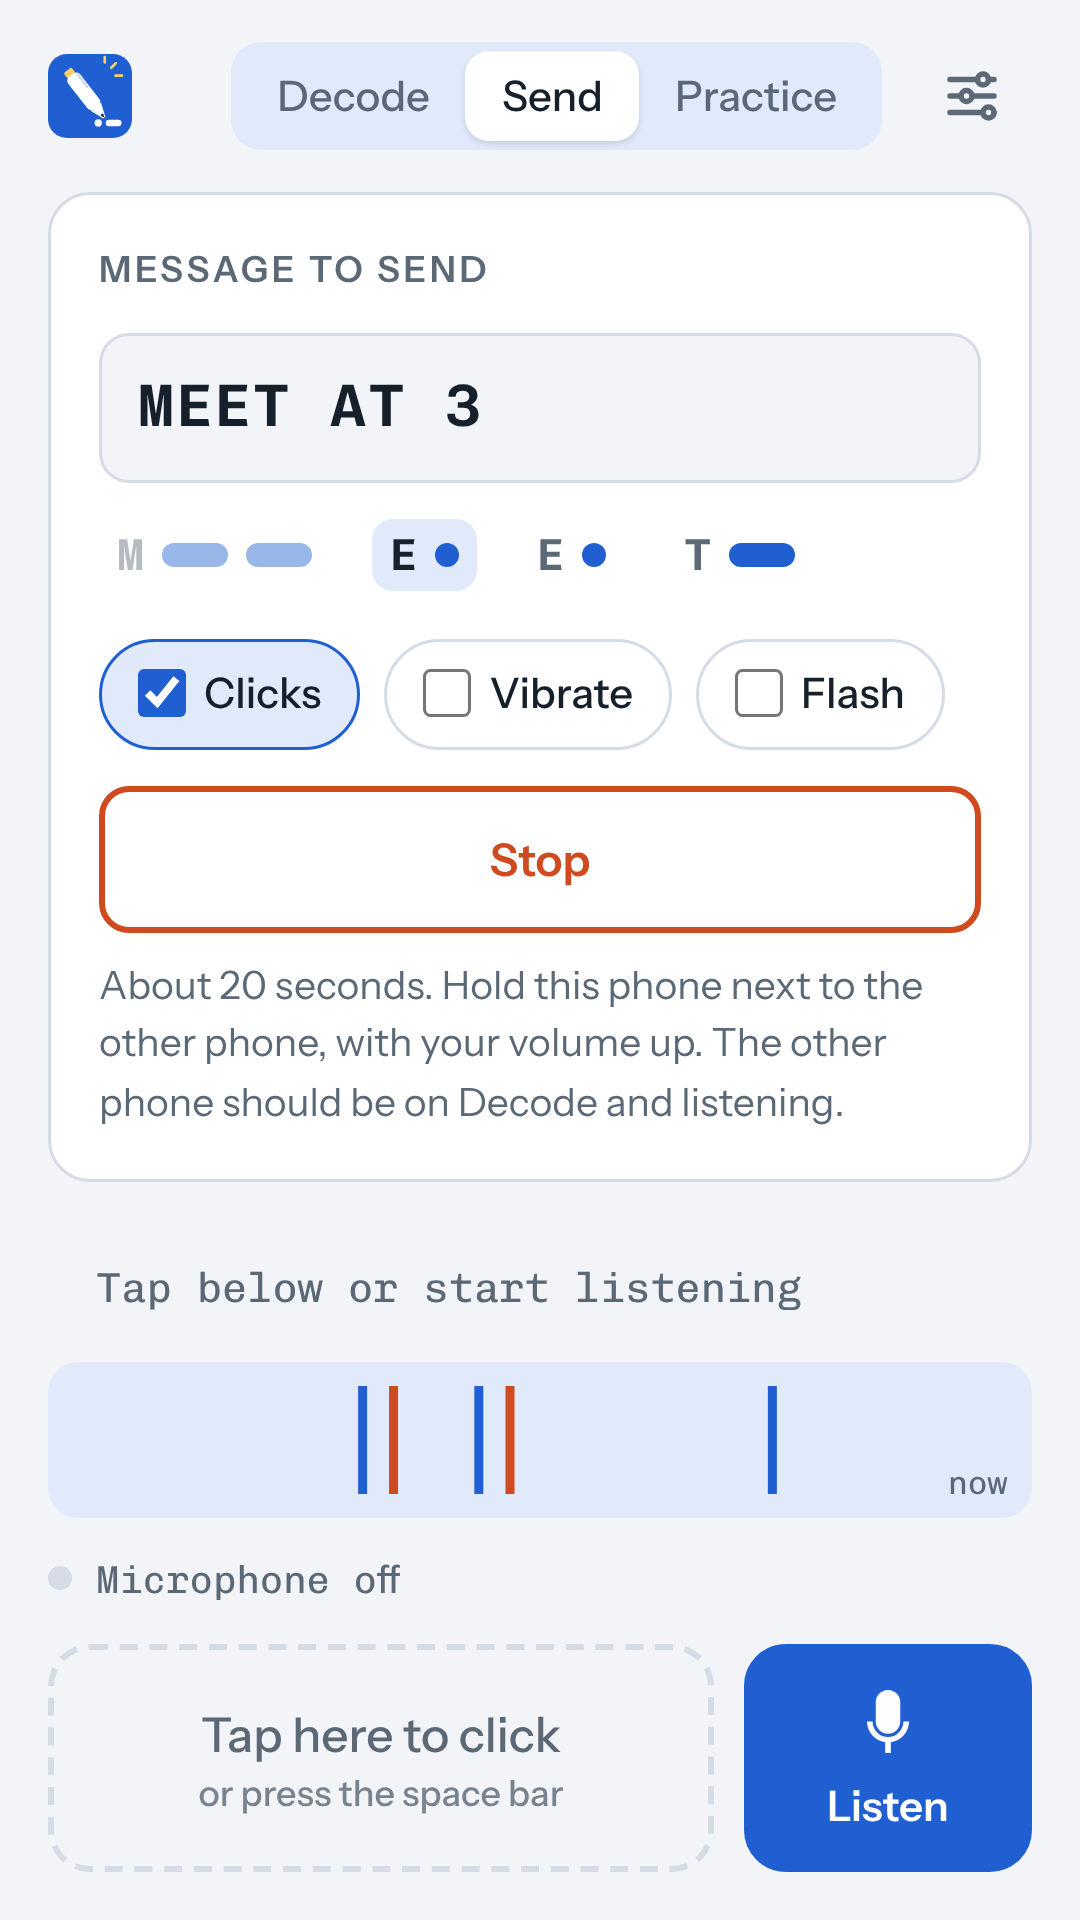
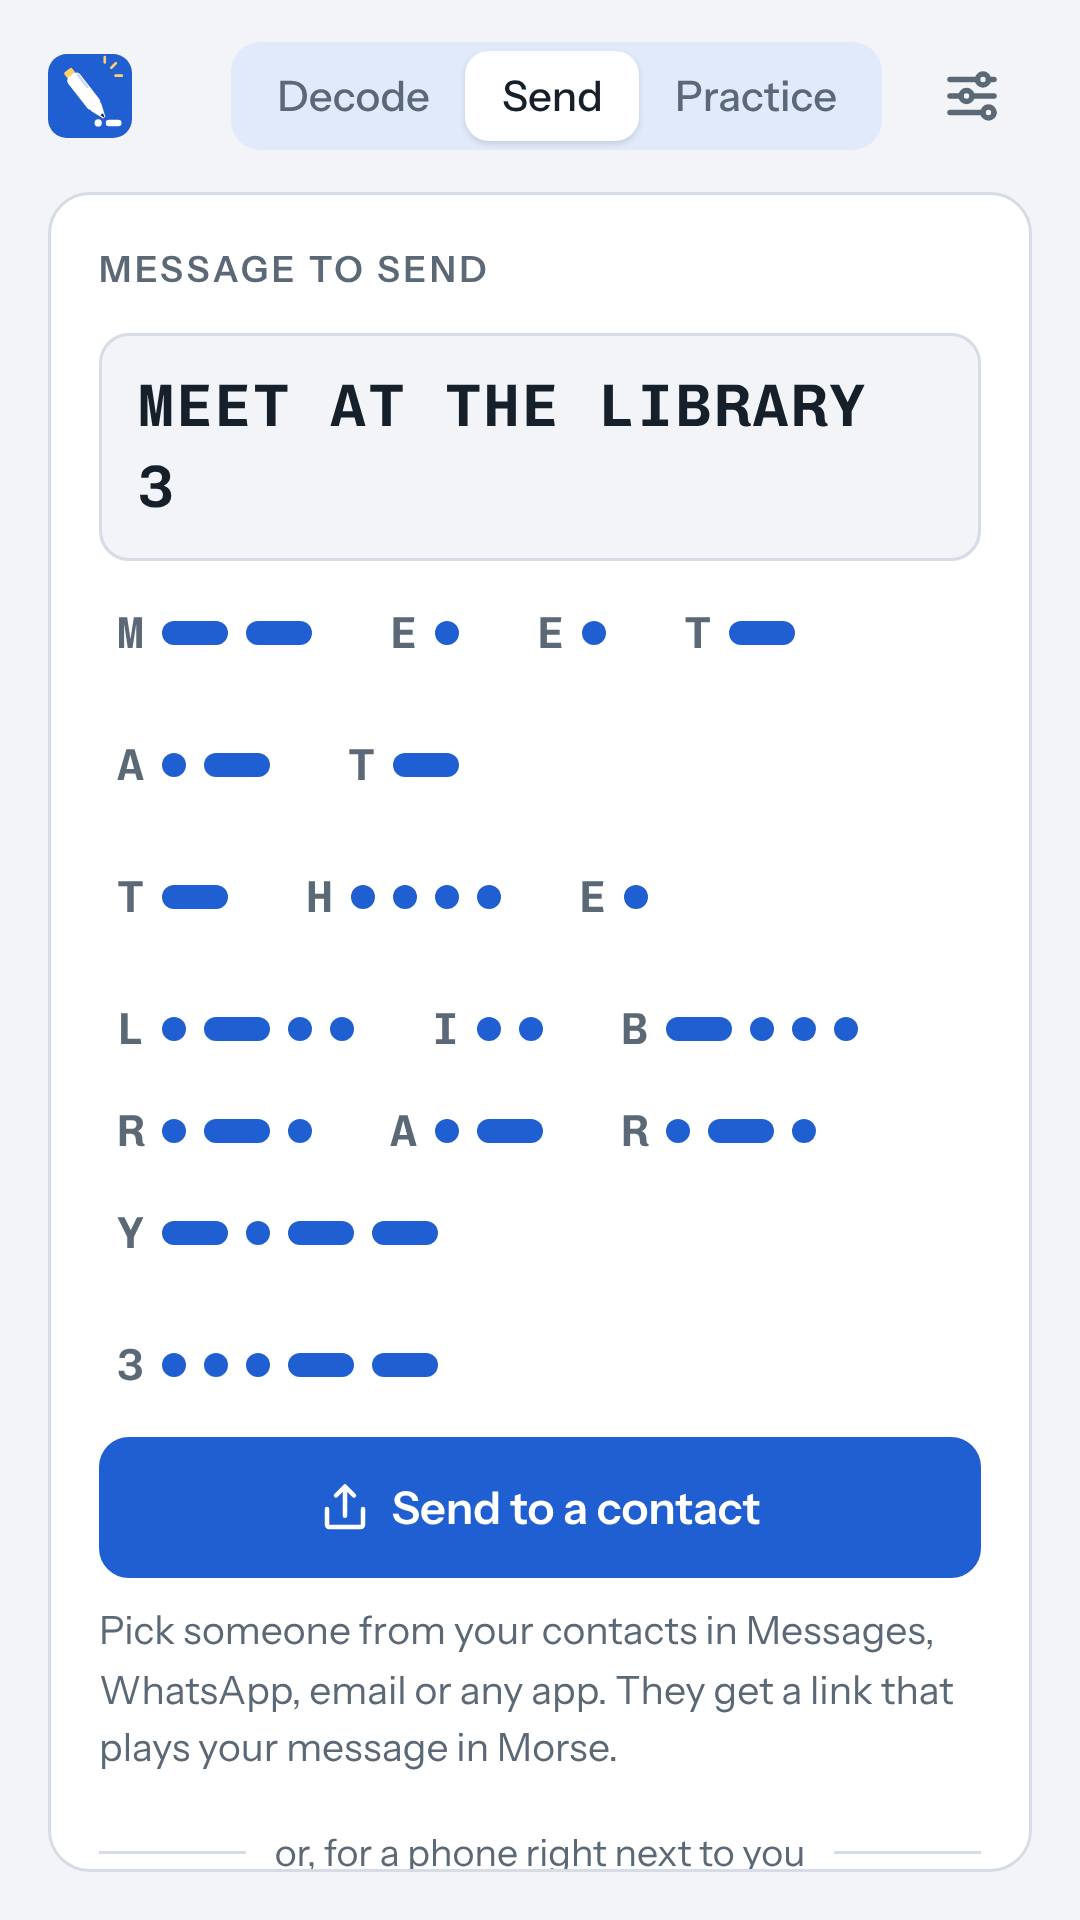
Add files via upload

diff --git a/sixsided/index.html b/sixsided/index.html
@@ -1,0 +1,154 @@
+<!doctype html>
+<html lang="en">
+<head>
+<meta charset="utf-8">
+<meta name="viewport" content="width=device-width,initial-scale=1,viewport-fit=cover">
+<title>SixSided Labs</title>
+<meta name="description" content="SixSided Labs LLC makes small, private apps for Android and the web, including Pen Click Morse.">
+<link rel="icon" href="logo.svg" type="image/svg+xml">
+<style>
+  /* Layout: one centred column. A die-face mark (six pips) is the company's sign;
+     the product card borrows Pen Click Morse's own blue. */
+  @font-face { font-family: "Bricolage Grotesque"; font-weight: 700; font-display: swap; src: url("../fonts/bricolage-grotesque-latin-700-normal.woff2") format("woff2"); }
+  @font-face { font-family: "Instrument Sans"; font-weight: 400; font-display: swap; src: url("../fonts/instrument-sans-latin-400-normal.woff2") format("woff2"); }
+  @font-face { font-family: "Instrument Sans"; font-weight: 600; font-display: swap; src: url("../fonts/instrument-sans-latin-600-normal.woff2") format("woff2"); }
+  @font-face { font-family: "Chivo Mono"; font-weight: 400; font-display: swap; src: url("../fonts/chivo-mono-latin-400-normal.woff2") format("woff2"); }
+
+  :root {
+    --bg: #f4f3ef; --panel: #ffffff; --ink: #1a1d24; --muted: #5f6470; --line: #dcdad3;
+    --pip: #1a1d24; --die: #ffffff; --accent: #1f5fd1; --accent-ink: #ffffff;
+    --display: "Bricolage Grotesque", "Arial Narrow", system-ui, sans-serif;
+    --body: "Instrument Sans", system-ui, -apple-system, "Segoe UI", Roboto, sans-serif;
+    --mono: "Chivo Mono", ui-monospace, Menlo, monospace;
+    color-scheme: light;
+  }
+  @media (prefers-color-scheme: dark) {
+    :root:not([data-theme="light"]) {
+      --bg: #121418; --panel: #1b1e24; --ink: #ecedf0; --muted: #9aa0ab; --line: #2d313a;
+      --pip: #121418; --die: #ecedf0; --accent: #6f9df1; --accent-ink: #0b1220; color-scheme: dark;
+    }
+  }
+  :root[data-theme="dark"] {
+    --bg: #121418; --panel: #1b1e24; --ink: #ecedf0; --muted: #9aa0ab; --line: #2d313a;
+    --pip: #121418; --die: #ecedf0; --accent: #6f9df1; --accent-ink: #0b1220; color-scheme: dark;
+  }
+
+  * { box-sizing: border-box; }
+  body { margin: 0; background: var(--bg); color: var(--ink); font: 17px/1.6 var(--body); }
+  .wrap { max-width: 760px; margin: 0 auto;
+    padding: max(28px, env(safe-area-inset-top)) max(20px, env(safe-area-inset-right)) max(48px, env(safe-area-inset-bottom)) max(20px, env(safe-area-inset-left));
+    display: grid; gap: 56px; }
+
+  header { display: flex; align-items: center; gap: 12px; }
+  .die { width: 40px; height: 40px; flex: none; }
+  .die rect { fill: var(--die); stroke: var(--ink); stroke-width: 6; }
+  .die circle { fill: var(--pip); }
+  @media (prefers-color-scheme: dark) { :root:not([data-theme="light"]) .die rect { stroke: var(--die); } }
+  :root[data-theme="dark"] .die rect { stroke: var(--die); }
+  .wordmark { font: 700 22px/1 var(--display); letter-spacing: -0.01em; }
+
+  .intro h1 { font: 700 clamp(34px, 7vw, 52px)/1.05 var(--display); letter-spacing: -0.02em; margin: 0 0 16px; text-wrap: balance; max-width: 18ch; }
+  .intro p { margin: 0; color: var(--muted); max-width: 56ch; font-size: 18px; }
+
+  h2 { font: 600 13px var(--body); text-transform: uppercase; letter-spacing: .12em; color: var(--muted); margin: 0 0 14px; }
+
+  .product { background: var(--panel); border: 1px solid var(--line); border-radius: 16px; padding: 22px;
+    display: grid; grid-template-columns: 72px 1fr; gap: 18px; align-items: start; }
+  .product img { width: 72px; height: 72px; border-radius: 16px; }
+  .product h3 { font: 700 24px/1.15 var(--display); margin: 2px 0 6px; }
+  .product p { margin: 0 0 14px; color: var(--muted); }
+  .code { display: flex; align-items: center; gap: 5px; margin-bottom: 14px; }
+  .code i { display: block; height: 8px; border-radius: 4px; background: var(--accent); }
+  .code .d { width: 8px; } .code .h { width: 22px; } .code .gap { width: 10px; background: none; }
+  .links { display: flex; gap: 10px; flex-wrap: wrap; }
+  .btn { display: inline-flex; align-items: center; padding: 10px 16px; border-radius: 10px; font: 600 15px var(--body);
+    text-decoration: none; border: 1px solid var(--line); color: var(--ink); background: var(--panel); }
+  .btn.primary { background: var(--accent); border-color: var(--accent); color: var(--accent-ink); }
+  .btn.soon { color: var(--muted); border-style: dashed; cursor: default; }
+  .btn:focus-visible { outline: 2px solid var(--accent); outline-offset: 2px; }
+  @media (max-width: 480px) { .product { grid-template-columns: 1fr; } }
+
+  .points { list-style: none; margin: 0; padding: 0; display: grid; gap: 14px; }
+  .points li { display: grid; grid-template-columns: 28px 1fr; gap: 10px; }
+  .points svg { width: 22px; height: 22px; margin-top: 3px; }
+  .points svg rect { fill: none; stroke: var(--ink); stroke-width: 7; }
+  .points svg circle { fill: var(--ink); }
+  .points b { display: block; }
+  .points span { color: var(--muted); }
+
+  .contact dl { margin: 0; display: grid; grid-template-columns: max-content 1fr; gap: 6px 18px; }
+  .contact dt { color: var(--muted); }
+  .contact dd { margin: 0; }
+  .contact a { color: var(--accent); }
+
+  footer { border-top: 1px solid var(--line); padding-top: 18px; color: var(--muted); font-size: 14px; display: flex; gap: 16px; flex-wrap: wrap; }
+  footer a { color: inherit; }
+</style>
+</head>
+<body>
+<div class="wrap">
+  <header>
+    <svg class="die" viewBox="0 0 100 100" aria-hidden="true">
+      <rect x="5" y="5" width="90" height="90" rx="20"/>
+      <circle cx="31" cy="28" r="8"/><circle cx="31" cy="50" r="8"/><circle cx="31" cy="72" r="8"/>
+      <circle cx="69" cy="28" r="8"/><circle cx="69" cy="50" r="8"/><circle cx="69" cy="72" r="8"/>
+    </svg>
+    <span class="wordmark">SixSided Labs</span>
+  </header>
+
+  <section class="intro">
+    <h1>Small apps for the things you do with your hands.</h1>
+    <p>SixSided Labs LLC builds focused, private apps for Android and the web. Each one does a single job, works on your device, and doesn't ask for an account.</p>
+  </section>
+
+  <section>
+    <h2>Our apps</h2>
+    <article class="product">
+      <img src="../icons/icon-192.png" alt="Pen Click Morse icon" width="72" height="72">
+      <div>
+        <h3>Pen Click Morse</h3>
+        <div class="code" aria-label="P E N in Morse code"><i class="d"></i><i class="h"></i><i class="h"></i><i class="d"></i><i class="gap"></i><i class="d"></i><i class="gap"></i><i class="h"></i><i class="d"></i></div>
+        <p>Send Morse code by clicking a pen. Your phone listens and turns the clicks into text. Send secret messages to friends, or practice until you can do it without looking.</p>
+        <div class="links">
+          <a class="btn primary" href="../">Open the web app</a>
+          <span class="btn soon" title="Coming soon">Google Play: coming soon</span>
+        </div>
+      </div>
+    </article>
+  </section>
+
+  <section>
+    <h2>How we build</h2>
+    <ul class="points">
+      <li>
+        <svg viewBox="0 0 100 100" aria-hidden="true"><rect x="6" y="6" width="88" height="88" rx="22"/><circle cx="50" cy="50" r="11"/></svg>
+        <div><b>One job each</b><span>An app should be quick to learn and hard to outgrow.</span></div>
+      </li>
+      <li>
+        <svg viewBox="0 0 100 100" aria-hidden="true"><rect x="6" y="6" width="88" height="88" rx="22"/><circle cx="30" cy="30" r="11"/><circle cx="70" cy="70" r="11"/></svg>
+        <div><b>Private by design</b><span>Our apps work on your device. No accounts, no ads, no tracking.</span></div>
+      </li>
+      <li>
+        <svg viewBox="0 0 100 100" aria-hidden="true"><rect x="6" y="6" width="88" height="88" rx="22"/><circle cx="28" cy="28" r="11"/><circle cx="50" cy="50" r="11"/><circle cx="72" cy="72" r="11"/></svg>
+        <div><b>Works offline</b><span>Once installed, they keep working without a connection.</span></div>
+      </li>
+    </ul>
+  </section>
+
+  <section class="contact">
+    <h2>Contact</h2>
+    <dl>
+      <dt>Company</dt><dd>SixSided Labs LLC</dd>
+      <dt>Email</dt><dd><a href="mailto:tkilburn34@gmail.com">tkilburn34@gmail.com</a></dd>
+      <!-- Optional: add your business mailing address, matching your state registration exactly:
+      <dt>Address</dt><dd>123 Example St, City, State ZIP</dd> -->
+    </dl>
+  </section>
+
+  <footer>
+    <span>© 2026 SixSided Labs LLC</span>
+    <a href="../privacy.html">Pen Click Morse privacy policy</a>
+  </footer>
+</div>
+</body>
+</html>

diff --git a/sw.js b/sw.js
@@ -1,8 +1,11 @@
 // Pen Click Morse — offline support.
-// Bump VERSION whenever you change any app file so phones pick up the update.
-const VERSION = "pcm-v4";
+//
+// Updating the app: raise V (and VERSION) here AND the ?v= number in index.html,
+// so every phone switches to the new files together.
+const V = "?v=5";
+const VERSION = "pcm-v5";
 const SHELL = [
-  "./", "index.html", "styles.css", "app.js", "decoder.js", "click-worklet.js",
+  "./", "index.html", "styles.css" + V, "decoder.js" + V, "app.js" + V, "click-worklet.js" + V,
   "manifest.webmanifest", "privacy.html", "icons/icon.svg", "icons/icon-192.png", "icons/icon-512.png",
   "fonts/bricolage-grotesque-latin-700-normal.woff2", "fonts/instrument-sans-latin-400-normal.woff2",
   "fonts/instrument-sans-latin-500-normal.woff2", "fonts/instrument-sans-latin-600-normal.woff2",
@@ -21,20 +24,25 @@ self.addEventListener("activate", (e) => {
   );
 });
 
+// Online: always fetch fresh (the page itself skips the browser cache), and keep a copy.
+// Offline: serve the saved copy.
 self.addEventListener("fetch", (e) => {
   const req = e.request;
   if (req.method !== "GET") return;
   const url = new URL(req.url);
   if (url.origin !== location.origin) return;
-  // Serve from cache straight away, refresh in the background.
-  e.respondWith(
-    caches.open(VERSION).then(async (cache) => {
-      const hit = await cache.match(req, { ignoreSearch: url.origin === location.origin });
-      const fresh = fetch(req).then((res) => {
-        if (res && res.ok) cache.put(req, res.clone());
-        return res;
-      }).catch(() => hit);
-      return hit || fresh;
-    })
-  );
+  e.respondWith((async () => {
+    const cache = await caches.open(VERSION);
+    try {
+      const res = req.mode === "navigate"
+        ? await fetch(url.href, { cache: "no-cache", credentials: "same-origin" })
+        : await fetch(req);
+      if (res.ok) cache.put(req, res.clone());
+      return res;
+    } catch {
+      return (await cache.match(req)) ||
+        (await cache.match(req, { ignoreSearch: true })) ||
+        (req.mode === "navigate" ? await cache.match("index.html") : Response.error());
+    }
+  })());
 });

diff --git a/app.js b/app.js
@@ -11,6 +11,10 @@ const CONFIG = {
   WEB_LETTER_LIMIT: 30,
 };
 
+// The ?v= number on this script's tag in index.html. Every file is loaded with it,
+// so a phone can never run a mix of old and new files after an update.
+const APP_VERSION = (() => { try { return new URL(document.currentScript.src).searchParams.get("v") || "dev"; } catch { return "dev"; } })();
+
 const $ = (id) => document.getElementById(id);
 const store = {
   get(k, d) { try { const v = localStorage.getItem("pcm:" + k); return v === null ? d : JSON.parse(v); } catch { return d; } },
@@ -83,7 +87,7 @@ async function startMic() {
       audio: { echoCancellation: false, noiseSuppression: false, autoGainControl: false },
     });
     ac = new AudioContext();
-    await ac.audioWorklet.addModule("click-worklet.js");
+    await ac.audioWorklet.addModule("click-worklet.js?v=" + APP_VERSION);
     node = new AudioWorkletNode(ac, "click-processor");
     node.port.onmessage = onAudioMessage;
     node.port.postMessage({ type: "set", params: detectorParams() });
@@ -679,4 +683,4 @@ applySettings();
 render();
 requestAnimationFrame(tick);
 if (!checkSharedLink() && !store.get("setupSeen", false)) setup.open();
-if ("serviceWorker" in navigator && location.protocol === "https:") navigator.serviceWorker.register("sw.js").catch(() => {});
+if ("serviceWorker" in navigator && (location.protocol === "https:" || location.hostname === "localhost")) navigator.serviceWorker.register("sw.js").catch(() => {});

diff --git a/index.html b/index.html
@@ -10,7 +10,8 @@
 <link rel="manifest" href="manifest.webmanifest">
 <link rel="icon" href="icons/icon.svg" type="image/svg+xml">
 <link rel="apple-touch-icon" href="icons/icon-192.png">
-<link rel="stylesheet" href="styles.css">
+<!-- When you change any app file, raise the ?v= number on these three lines AND the VERSION in sw.js. -->
+<link rel="stylesheet" href="styles.css?v=5">
 </head>
 <body>
 <div class="app">
@@ -180,7 +181,7 @@
   <div class="sheet-body" id="setupBody"></div>
 </dialog>
 
-<script src="decoder.js"></script>
-<script src="app.js"></script>
+<script src="decoder.js?v=5"></script>
+<script src="app.js?v=5"></script>
 </body>
 </html>

diff --git a/README.md b/README.md
@@ -119,7 +119,16 @@ any file**, so phones download the new version.
 ## Updating the app later
 
 Most changes need **no new Play Store upload**. The Android app loads the website,
-so editing the files on GitHub updates everyone (remember to bump `VERSION` in `sw.js`).
+so editing the files on GitHub updates everyone.
+
+Whenever you change an app file, raise the version number in two places so every
+phone switches to the new files together:
+- `index.html`: the `?v=5` on the `styles.css`, `decoder.js` and `app.js` lines (make them all `?v=6`)
+- `sw.js`: `V = "?v=5"` → `"?v=6"` and `VERSION = "pcm-v5"` → `"pcm-v6"`
+
+The company page lives at `sixsided/` (https://YOURUSERNAME.github.io/sixsided/).
+Don't add a custom domain to this repository: it would change the app's address
+and break the Android app. Put a company domain on a separate repository instead.
 You only need a new `.aab` from PWABuilder if you change the app's name, icon or
 package details. Use the **same signing key** you backed up.
 
